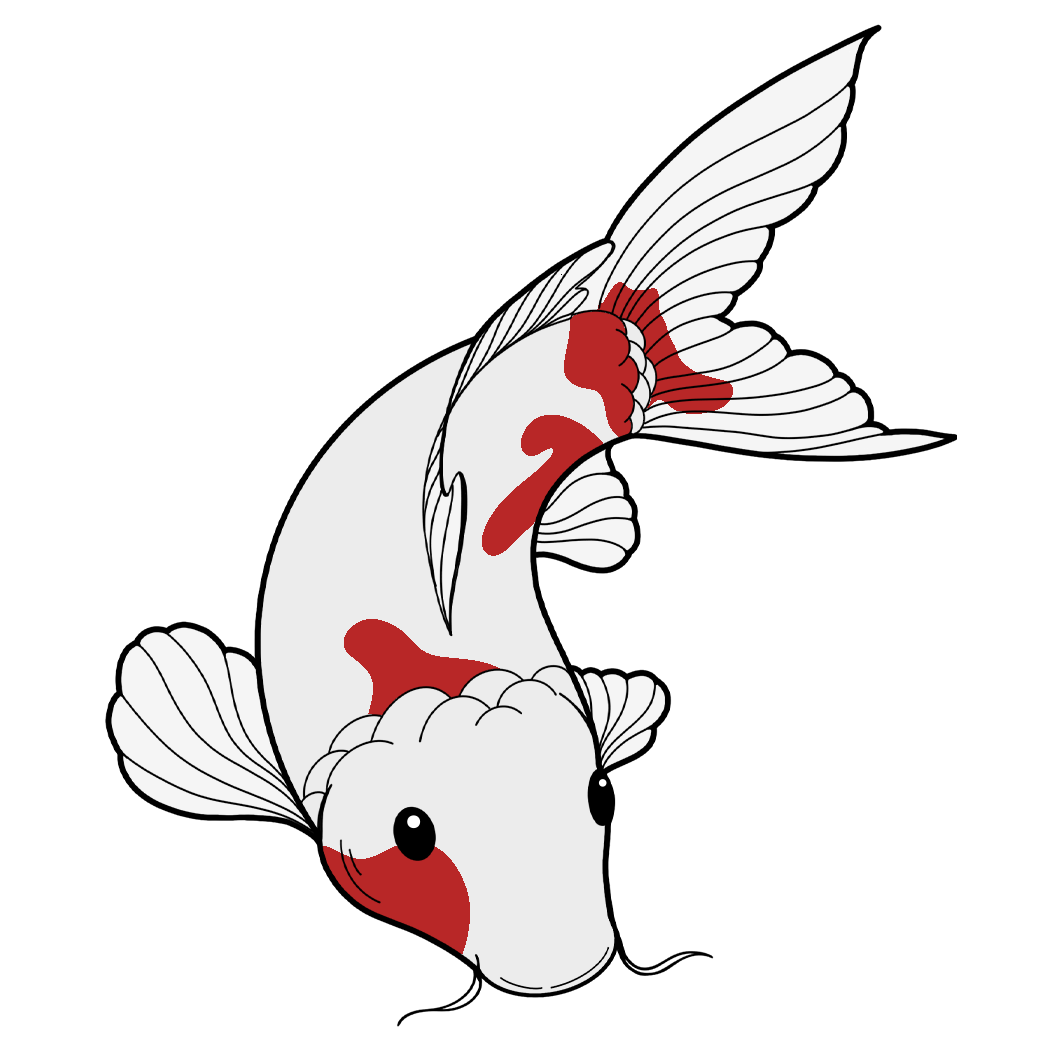
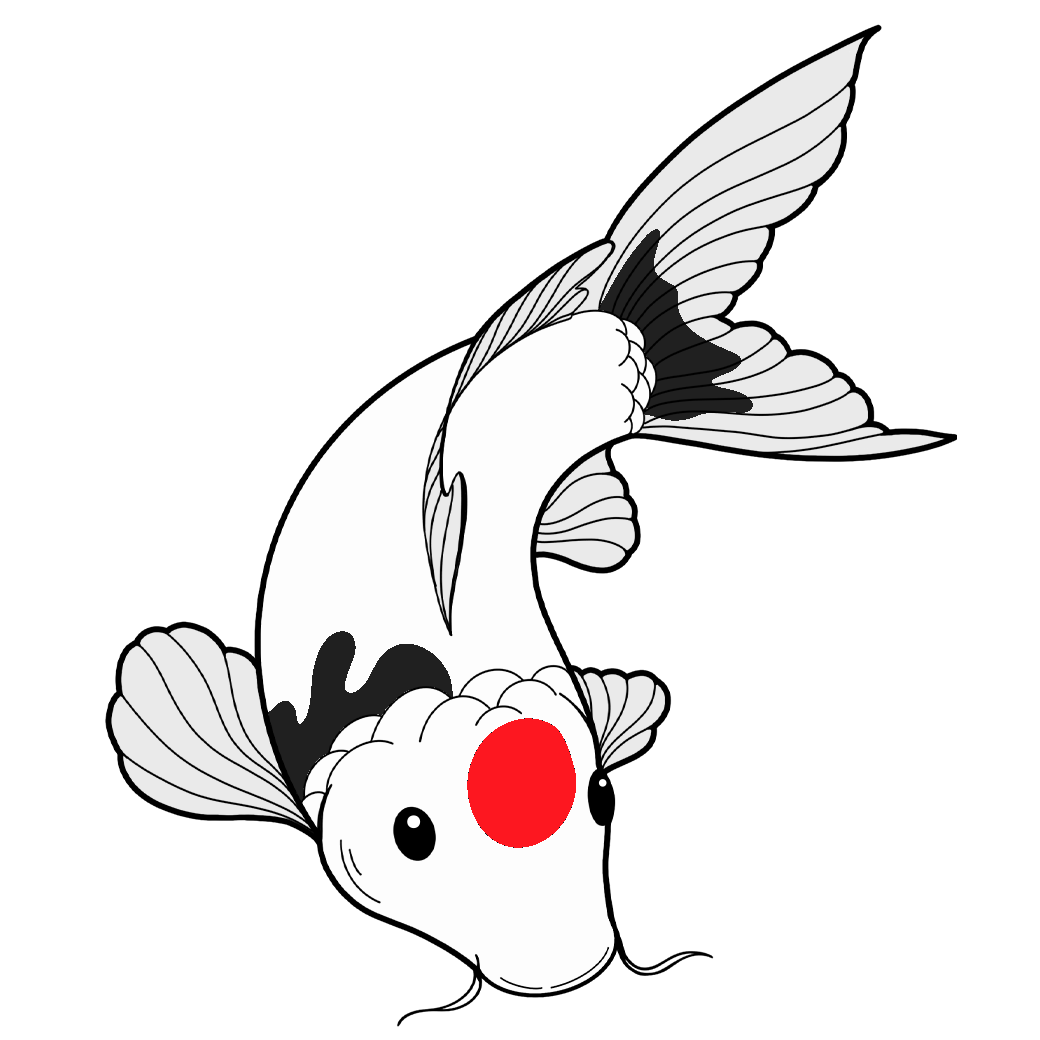
Remodelled onboarding screen

diff --git a/packages/crypto-koi-app/src/screens/onboarding/OnboardingScreen.tsx b/packages/crypto-koi-app/src/screens/onboarding/OnboardingScreen.tsx
@@ -23,6 +23,7 @@ import { AppButton } from "../../components/AppButton";
 import Wave from "../../components/Wave";
 import { useFloating } from "../../hooks/useFloating";
 import { userService } from "../../services/UserService";
+import { Colors } from "../../styles/colors";
 import { DimensionUtils } from "../../utils/DimensionUtils";
 
 const style = StyleSheet.create({
@@ -129,12 +130,12 @@ function OnboardingScreen() {
     ]);
 
     return (
-        <View style={tailwind("flex-1 bg-slate-700")}>
+        <View style={tailwind("flex-1 bg-zinc-300")}>
             <View style={tailwind("absolute top-0")}>
                 <Wave
                     svgStyle={[
                         style.svg,
-                        tailwind("text-slate-900"),
+                        tailwind("text-red-600"),
                         style.rotatedSvg,
                     ]}
                 />
@@ -156,20 +157,20 @@ function OnboardingScreen() {
                             <Image
                                 style={style.img}
                                 resizeMode="contain"
-                                source={require("../../../assets/image/cg-3.png")}
+                                source={require("../../../assets/image/koi.png")}
                             />
                         </RNAnimated.View>
                     </View>
                     <Text
                         style={tailwind(
-                            "text-white mt-10 text-4xl font-bold text-center"
+                            "text-black mt-10 text-4xl font-bold text-center"
                         )}
                     >
                         Welcome
                     </Text>
                     <Text
                         style={tailwind(
-                            "text-white text-lg mt-5 px-10 text-center"
+                            "text-black text-lg mt-5 px-10 text-center"
                         )}
                     >
                         Travel and have fun with your best friends
@@ -186,7 +187,7 @@ function OnboardingScreen() {
                             <Animated.Text
                                 entering={FadeIn}
                                 style={tailwind(
-                                    "text-white text-4xl font-bold text-center mb-5"
+                                    "text-black text-4xl font-bold text-center mb-5"
                                 )}
                             >
                                 Keep your friend alive
@@ -201,26 +202,26 @@ function OnboardingScreen() {
                                 entering={FadeIn.delay(500)}
                             >
                                 <Icon
-                                    style={tailwind("text-4xl text-amber-500")}
+                                    style={tailwind("text-4xl text-red-600")}
                                     name="food-apple"
                                 />
 
                                 <View style={tailwind("ml-5")}>
                                     <Text
-                                        style={tailwind("text-white text-lg")}
+                                        style={tailwind("text-black text-lg")}
                                     >
                                         Feed your friend
                                     </Text>
                                     <Text
                                         style={tailwind(
-                                            "text-white opacity-75"
+                                            "text-black opacity-75"
                                         )}
                                     >
                                         Every few hours
                                     </Text>
                                 </View>
                             </Animated.View>
-                            <Animated.View
+                            {/*<Animated.View
                                 style={[
                                     style.listItem,
                                     tailwind(
@@ -235,19 +236,19 @@ function OnboardingScreen() {
                                 />
                                 <View style={tailwind("ml-5")}>
                                     <Text
-                                        style={tailwind("text-white text-lg")}
+                                        style={tailwind("text-black text-lg")}
                                     >
                                         Play with him
                                     </Text>
                                     <Text
                                         style={tailwind(
-                                            "text-white opacity-75"
+                                            "text-black opacity-75"
                                         )}
                                     >
                                         And rank against your friends
                                     </Text>
                                 </View>
-                            </Animated.View>
+                                        </Animated.View>*/}
                             <Animated.View
                                 style={[
                                     style.listItem,
@@ -258,21 +259,21 @@ function OnboardingScreen() {
                                 entering={FadeIn.delay(1500)}
                             >
                                 <Icon
-                                    style={tailwind("text-4xl text-amber-500")}
+                                    style={tailwind("text-4xl text-red-600")}
                                     name="heart"
                                 />
                                 <View style={tailwind("ml-5")}>
                                     <Text
-                                        style={tailwind("text-white text-lg")}
+                                        style={tailwind("text-black text-lg")}
                                     >
                                         Build a relationship
                                     </Text>
                                     <Text
                                         style={tailwind(
-                                            "text-white opacity-75"
+                                            "text-black opacity-75"
                                         )}
                                     >
-                                        And show your friends your Tabito
+                                        And show your koi to your friends
                                     </Text>
                                 </View>
                             </Animated.View>
@@ -291,14 +292,14 @@ function OnboardingScreen() {
                         <Animated.View entering={FadeIn}>
                             <Text
                                 style={tailwind(
-                                    "text-white text-4xl font-bold text-center mb-5"
+                                    "text-black text-4xl font-bold text-center mb-5"
                                 )}
                             >
                                 Make it an NFT
                             </Text>
                             <Text
                                 style={tailwind(
-                                    "text-white text-lg text-center"
+                                    "text-black text-lg text-center"
                                 )}
                             >
                                 To never loose your friend again you can make
@@ -306,7 +307,7 @@ function OnboardingScreen() {
                             </Text>
                             <View style={tailwind("mt-5")}>
                                 <AppButton
-                                    backgroundColor="red"
+                                    backgroundColor={Colors.bgColorVariant}
                                     textColor="white"
                                     onPress={onPlayPress}
                                     title="Play"
@@ -318,7 +319,7 @@ function OnboardingScreen() {
             </ScrollView>
 
             <View style={tailwind("absolute -bottom-20")}>
-                <Wave svgStyle={[style.svg, tailwind("text-slate-900")]} />
+                <Wave svgStyle={[style.svg, tailwind("text-red-600")]} />
             </View>
 
             <View style={tailwind("flex-row items-center justify-between")}>
@@ -335,7 +336,7 @@ function OnboardingScreen() {
                         <View
                             key={index}
                             style={[
-                                tailwind("bg-slate-400 mx-2 rounded"),
+                                tailwind("bg-red-400 mx-2 rounded"),
                                 style.dot,
                             ]}
                         />
@@ -343,7 +344,7 @@ function OnboardingScreen() {
                     <Animated.View
                         style={[
                             style.dot,
-                            tailwind("bg-slate-200 rounded absolute mx-2"),
+                            tailwind("bg-red-200 rounded absolute mx-2"),
                             animatedActiveDotStyle,
                         ]}
                     />

diff --git a/packages/crypto-koi-app/tailwind.css b/packages/crypto-koi-app/tailwind.css
@@ -217,29 +217,14 @@
   background-color: rgb(245 158 11 / var(--tw-bg-opacity))
 }
 
-.bg-slate-700 {
-  --tw-bg-opacity: 1;
-  background-color: rgb(51 65 85 / var(--tw-bg-opacity))
-}
-
-.bg-slate-800 {
-  --tw-bg-opacity: 1;
-  background-color: rgb(30 41 59 / var(--tw-bg-opacity))
-}
-
 .bg-black {
   --tw-bg-opacity: 1;
   background-color: rgb(0 0 0 / var(--tw-bg-opacity))
 }
 
-.bg-red-400 {
+.bg-red-700 {
   --tw-bg-opacity: 1;
-  background-color: rgb(248 113 113 / var(--tw-bg-opacity))
-}
-
-.bg-red-900 {
-  --tw-bg-opacity: 1;
-  background-color: rgb(127 29 29 / var(--tw-bg-opacity))
+  background-color: rgb(185 28 28 / var(--tw-bg-opacity))
 }
 
 .bg-slate-400 {
@@ -252,9 +237,34 @@
   background-color: rgb(226 232 240 / var(--tw-bg-opacity))
 }
 
-.bg-white {
+.bg-zinc-700 {
   --tw-bg-opacity: 1;
-  background-color: rgb(255 255 255 / var(--tw-bg-opacity))
+  background-color: rgb(63 63 70 / var(--tw-bg-opacity))
+}
+
+.bg-zinc-300 {
+  --tw-bg-opacity: 1;
+  background-color: rgb(212 212 216 / var(--tw-bg-opacity))
+}
+
+.bg-zinc-500 {
+  --tw-bg-opacity: 1;
+  background-color: rgb(113 113 122 / var(--tw-bg-opacity))
+}
+
+.bg-zinc-400 {
+  --tw-bg-opacity: 1;
+  background-color: rgb(161 161 170 / var(--tw-bg-opacity))
+}
+
+.bg-red-400 {
+  --tw-bg-opacity: 1;
+  background-color: rgb(248 113 113 / var(--tw-bg-opacity))
+}
+
+.bg-red-200 {
+  --tw-bg-opacity: 1;
+  background-color: rgb(254 202 202 / var(--tw-bg-opacity))
 }
 
 .p-2 {
@@ -401,16 +411,6 @@
   color: rgb(255 255 255 / var(--tw-text-opacity))
 }
 
-.text-amber-500 {
-  --tw-text-opacity: 1;
-  color: rgb(245 158 11 / var(--tw-text-opacity))
-}
-
-.text-amber-100 {
-  --tw-text-opacity: 1;
-  color: rgb(254 243 199 / var(--tw-text-opacity))
-}
-
 .text-indigo-50 {
   --tw-text-opacity: 1;
   color: rgb(238 242 255 / var(--tw-text-opacity))
@@ -421,19 +421,34 @@
   color: rgb(0 0 0 / var(--tw-text-opacity))
 }
 
-.text-slate-500 {
-  --tw-text-opacity: 1;
-  color: rgb(100 116 139 / var(--tw-text-opacity))
-}
-
 .text-red-900 {
   --tw-text-opacity: 1;
   color: rgb(127 29 29 / var(--tw-text-opacity))
 }
 
+.text-amber-500 {
+  --tw-text-opacity: 1;
+  color: rgb(245 158 11 / var(--tw-text-opacity))
+}
+
 .text-slate-900 {
   --tw-text-opacity: 1;
   color: rgb(15 23 42 / var(--tw-text-opacity))
+}
+
+.text-red-700 {
+  --tw-text-opacity: 1;
+  color: rgb(185 28 28 / var(--tw-text-opacity))
+}
+
+.text-red-600 {
+  --tw-text-opacity: 1;
+  color: rgb(220 38 38 / var(--tw-text-opacity))
+}
+
+.text-red-500 {
+  --tw-text-opacity: 1;
+  color: rgb(239 68 68 / var(--tw-text-opacity))
 }
 
 .opacity-50 {

diff --git a/packages/crypto-koi-app/src/styles/colors.ts b/packages/crypto-koi-app/src/styles/colors.ts
@@ -1,4 +1,4 @@
 export const Colors = {
     bgColor: "#0f172a",
-    bgColorVariant: "#7f1d1d",
+    bgColorVariant: "#dc2626",
 };
